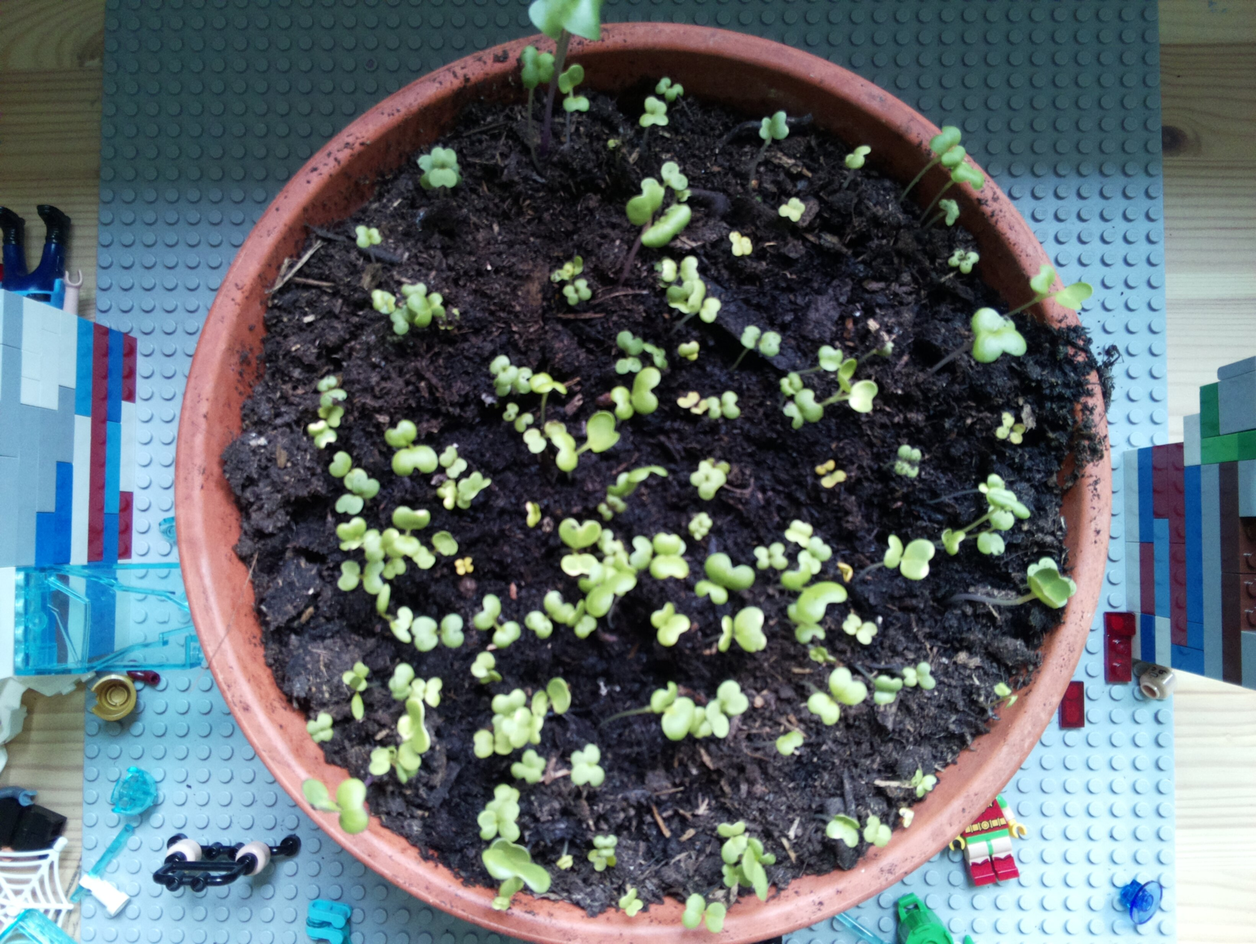
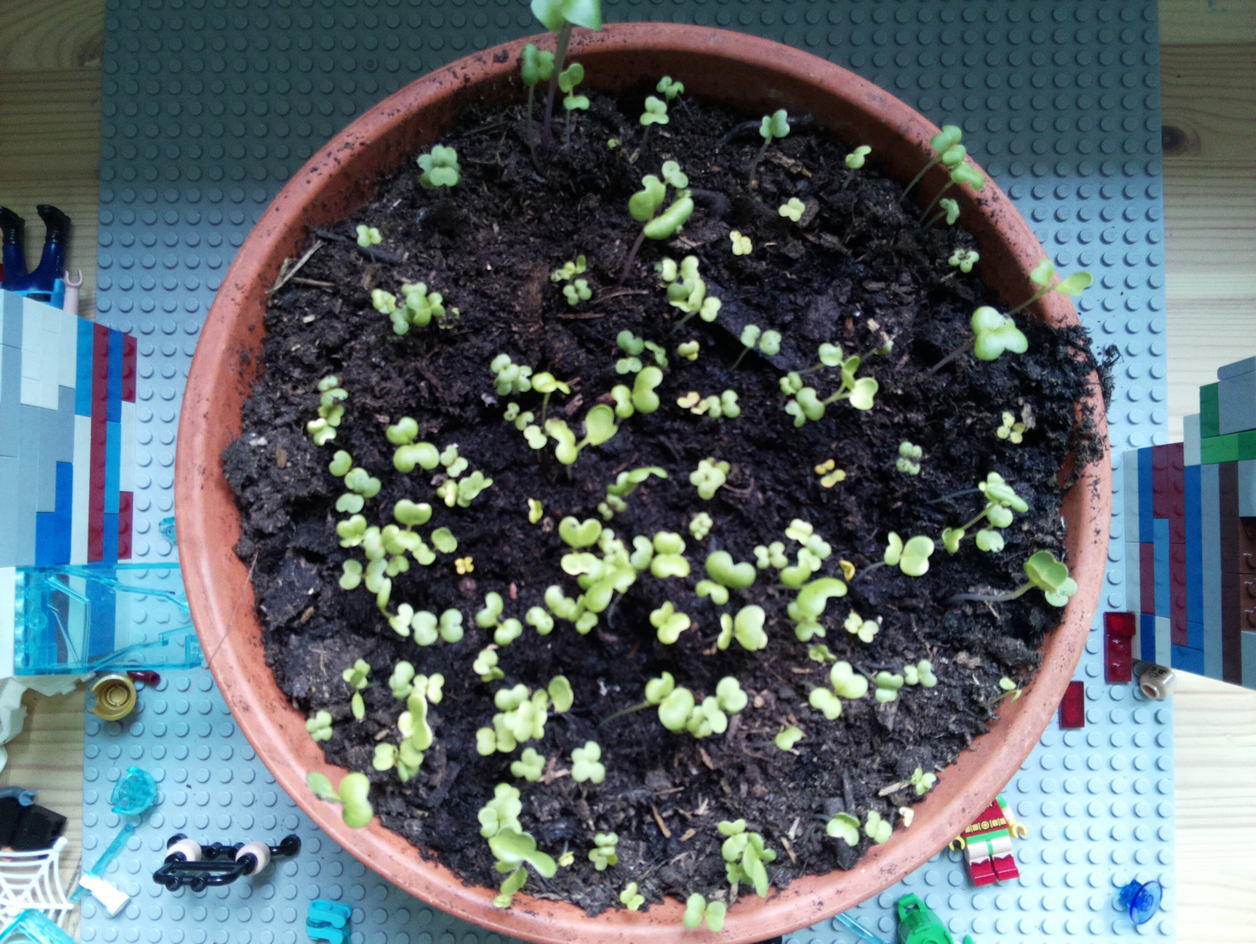
Update images at Thu 20 May 08:21:15 BST 2021

diff --git a/index.html b/index.html
@@ -11,7 +11,7 @@
     <div class="container">
     <h2>Keith & Jackson's Growlab!</h2>
     <p>Taking part in the #growlab challenge!</p>
-    <p>Last Updated - 2021-05-20_0810</p>            
+    <p>Last Updated - 2021-05-20_0820</p>            
     <img src="image.jpg" class="img-rounded" alt="Latest" width="304" height="236"> 
     </div>
   </body>
